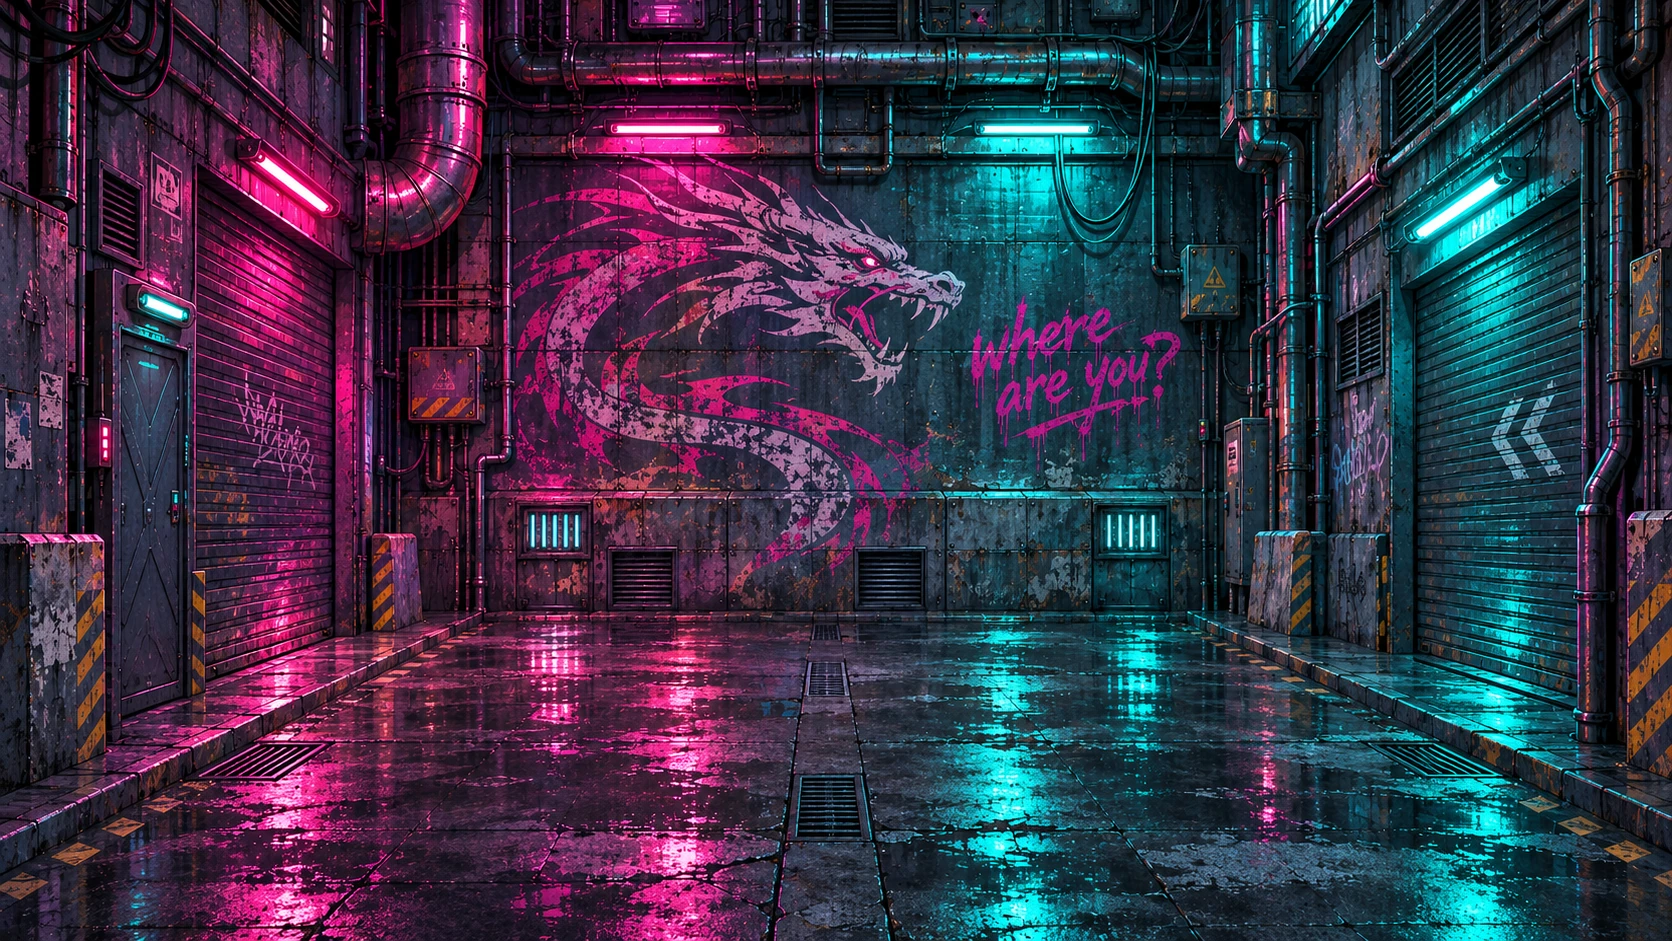
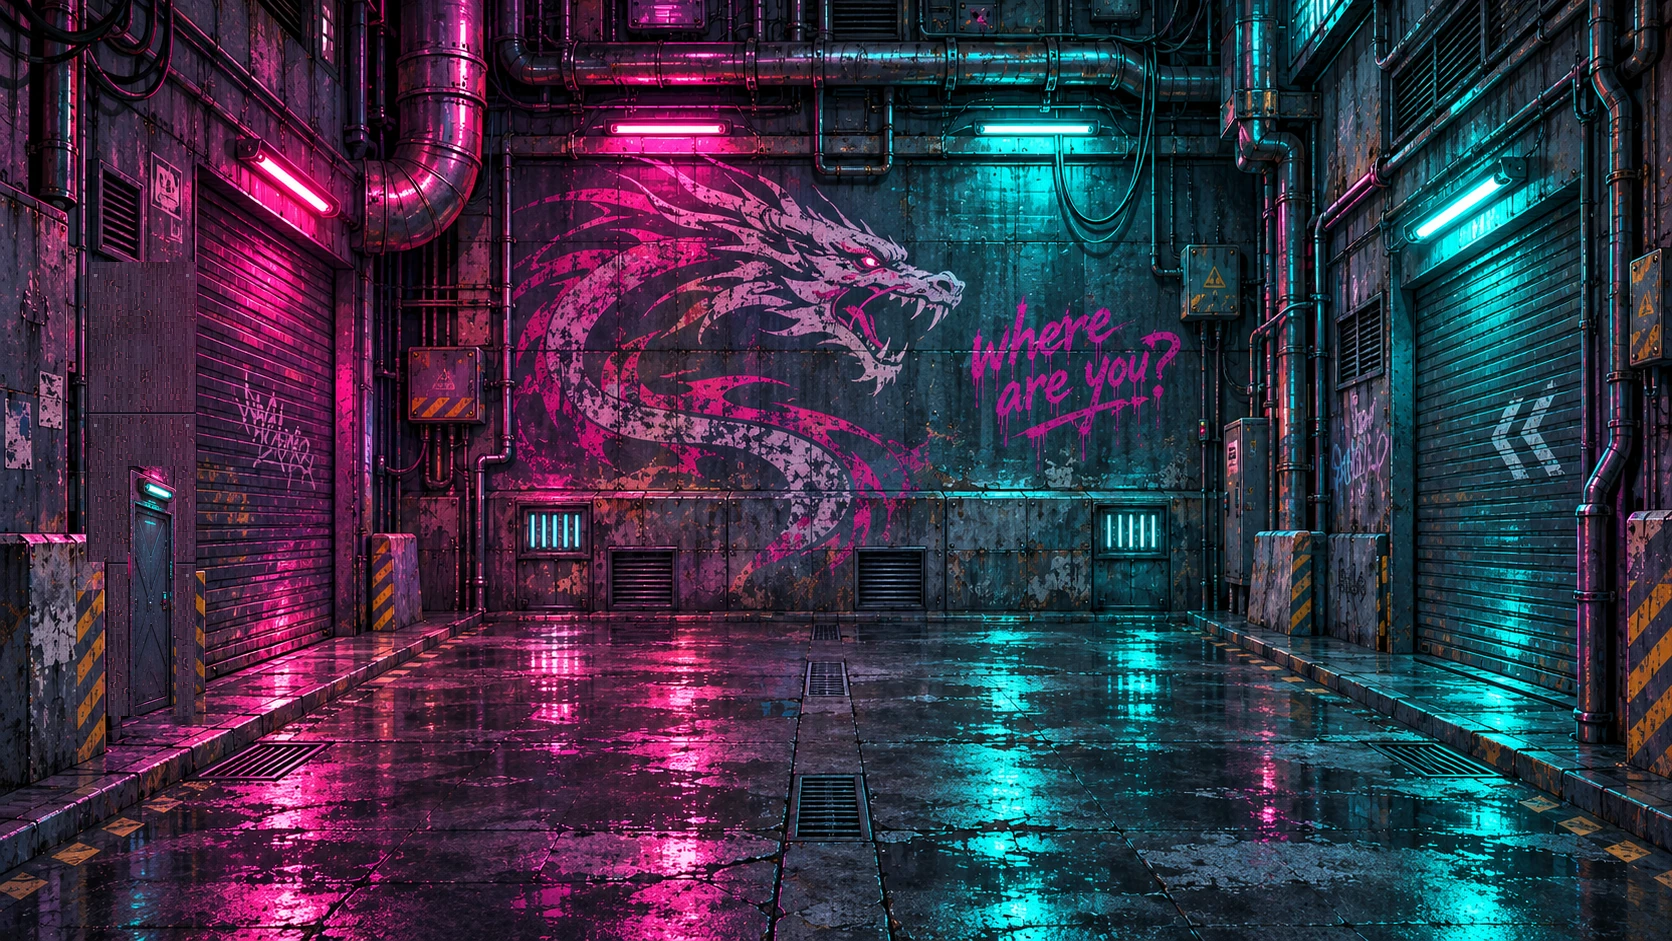
v0.60.1 · ClaudeHelper: Hintertür der Gasse auf Figurenmaß (#29)
- Türeinheit im Gassenbild auf etwa 1,3 Figurenhöhen verkleinert, Wand darüber gefüllt
- Werkzeug tools/passages/fit_backalley_door.py, Einstiegspunkt angepasst

Claude-Session: https://claude.ai/code/session_01DCcWRks7BwbFYudgfv7A8H

Changed region(s): [[0.0311, 0.2774, 0.1244, 0.7705]]

diff --git a/tools/passages/fit_backalley_door.py b/tools/passages/fit_backalley_door.py
@@ -1,0 +1,77 @@
+#!/usr/bin/env python3
+"""v0.60.1 · ClaudeHelper: Hintertür der Gasse auf Figurenmaß bringen.
+
+Im gelieferten Bild ist die Tür links rund 2,4 Figuren hoch. Das Werkzeug verkleinert die ganze
+Türeinheit (Rahmen, Lampe, Schloss) auf etwa 1,3 Figurenhöhen, lässt sie auf dem Gehweg stehen
+und füllt die frei gewordene Wand mit dem Blech der Nachbarwand.
+
+Aufruf:  python3 tools/passages/fit_backalley_door.py <gasse_1.png>
+Schreibt assets/world/painted/backalley.webp.
+"""
+import sys
+from pathlib import Path
+import numpy as np
+from PIL import Image, ImageDraw
+
+ROOT = Path(__file__).resolve().parents[2]
+UNIT = (86, 262, 196, 716)        # Türeinheit im Original
+BLOCK = (86, 562, 108, 716)       # Betonblock links unten bleibt, wie er ist
+DOOR = (108, 262, 196, 716)       # verkleinert wird nur Rahmen, Lampe und Blatt
+SCALE = 0.55
+WALL = (4, 205, 46, 258)          # ruhiges Wandblech links oben, ohne Plakate und Halterung
+
+
+def main(source: str) -> None:
+    img = Image.open(source).convert("RGB")
+    unit = img.crop(UNIT)
+    block = img.crop(BLOCK)
+    door = img.crop(DOOR)
+    w, h = unit.size
+    # Wandfüllung: kleine Stücke des Nachbarblechs zufällig neu gelegt – Körnung und Farbe
+    # bleiben, erkennbare Formen (Kanten, Plakate) wiederholen sich nicht.
+    rng = np.random.default_rng(601)
+    patch = np.asarray(img.crop(WALL))
+    ph, pw = patch.shape[:2]
+    cell = 6
+    quilt = np.zeros((h + cell * 2, w + cell * 2, 3), np.uint8)
+    for gy in range(0, h + cell, cell):
+        for gx in range(0, w + cell, cell):
+            sx = int(rng.integers(0, pw - cell)); sy = int(rng.integers(0, ph - cell))
+            piece = patch[sy:sy + cell, sx:sx + cell]
+            if rng.random() < 0.5: piece = piece[:, ::-1]
+            quilt[gy:gy + cell, gx:gx + cell] = piece
+    from PIL import ImageFilter
+    # Weiche Farbflecken aus dem Flickwerk, darüber nur dessen feine Körnung – so bleiben keine
+    # Kachelkanten stehen.
+    mosaic = Image.fromarray(quilt[:h, :w])
+    base = np.asarray(mosaic.filter(ImageFilter.GaussianBlur(7))).astype(np.float32)
+    grain = np.asarray(mosaic).astype(np.float32) - np.asarray(mosaic.filter(ImageFilter.GaussianBlur(1.6))).astype(np.float32)
+    streaks = rng.normal(0.0, 5.0, (1, w, 1)).astype(np.float32)          # senkrechte Laufspuren
+    fill = Image.fromarray(np.clip(base + grain * 0.55 + streaks, 0, 255).astype(np.uint8))
+    # Licht der Neonröhre rechts oben: nach rechts und oben leicht ins Pink ziehen.
+    a = np.asarray(fill).astype(np.float32)
+    yy, xx = np.mgrid[0:h, 0:w].astype(np.float32)
+    glow = np.clip(xx / w, 0, 1) ** 2 * np.clip(1 - yy / h, 0, 1) * 0.55
+    a = a * (1 - glow[..., None] * 0.35) + np.array([214, 40, 130], np.float32) * glow[..., None] * 0.35
+    fill = Image.fromarray(np.clip(a, 0, 255).astype(np.uint8))
+    d = ImageDraw.Draw(fill)
+    for seam in (150, 300):                       # Plattenfugen wie an der Nachbarwand
+        d.line([(0, seam), (w, seam)], fill=(20, 16, 28), width=2)
+        d.line([(0, seam + 2), (w, seam + 2)], fill=(86, 70, 98), width=1)
+    d.line([(1, 0), (1, h)], fill=(18, 14, 26), width=2)
+    for x, yy_ in [(8, 12), (w - 10, 12), (8, 162), (w - 10, 162), (8, 312), (w - 10, 312)]:
+        d.rectangle([x, yy_, x + 2, yy_ + 2], fill=(120, 104, 128))
+    img.paste(fill, UNIT[:2])
+    img.paste(block, BLOCK[:2])
+    # Verkleinerte Tür auf den Gehweg stellen.
+    small = door.resize((round(door.size[0] * SCALE), round(door.size[1] * SCALE)), Image.LANCZOS)
+    x = DOOR[0] + (door.size[0] - small.size[0]) // 2
+    y = UNIT[3] - small.size[1]
+    img.paste(small, (x, y))
+    out = ROOT / "assets/world/painted/backalley.webp"
+    img.save(out, quality=92, method=6)
+    print("door", (x, y, x + small.size[0], y + small.size[1]), "->", out)
+
+
+if __name__ == "__main__":
+    main(sys.argv[1])

diff --git a/Spiel-README.md b/Spiel-README.md
@@ -1,6 +1,6 @@
 # Shadepi · Spieleranleitung
 
-**Aktueller Stand v0.60.0 · ClaudeHelper.** [Neu: Gasse, Tower-Flur und Lobby, zwei Netz-Ebenen](docs/durchgangsraeume.md) · [Neu: Verfolgung in drei Etappen, längerer Hinterhalt](docs/level-strecken.md) · [Neu: Arcade-Automat NEON KOMBAT](docs/arcade.md) · [Neu: Verfolger explodiert, Baken zerbersten](docs/verfolgung-finale-v056.md) · [Neu: Hauptmenü aus jedem Kapitel, Koop in allen Abschnitten](docs/menue-kontrollpunkte.md) · [Neu: Koop mit Raven in Kapitel 3–7, neue Tonaufnahmen](docs/begleiter.md) · [Neu: Begleiter für Spieler 2](docs/begleiter.md) · [Neu: kalibrierte Sprites, Spiegelungen, Kinolicht](docs/szenenpolitur-v052.md) · [Neu: Towerplan, Pixelmarker, Alarmlicht, Umgebungsgeräusche](docs/verbesserungen-v048.md) · [Story-Durchsicht Kapitel 1–7](docs/story-durchsicht.md) · [Downloads](https://github.com/Inrouder/ShadepiRPG/releases/latest) · [Bilder und Filme](docs/README.md) · [Änderungen](CHANGELOG.md). [Ältere Anleitung mit damaligen Abläufen](docs/archiv/spielanleitung-bis-v0461.md).
+**Aktueller Stand v0.60.1 · ClaudeHelper.** [Neu: Gasse, Tower-Flur und Lobby, zwei Netz-Ebenen](docs/durchgangsraeume.md) · [Neu: Verfolgung in drei Etappen, längerer Hinterhalt](docs/level-strecken.md) · [Neu: Arcade-Automat NEON KOMBAT](docs/arcade.md) · [Neu: Verfolger explodiert, Baken zerbersten](docs/verfolgung-finale-v056.md) · [Neu: Hauptmenü aus jedem Kapitel, Koop in allen Abschnitten](docs/menue-kontrollpunkte.md) · [Neu: Koop mit Raven in Kapitel 3–7, neue Tonaufnahmen](docs/begleiter.md) · [Neu: Begleiter für Spieler 2](docs/begleiter.md) · [Neu: kalibrierte Sprites, Spiegelungen, Kinolicht](docs/szenenpolitur-v052.md) · [Neu: Towerplan, Pixelmarker, Alarmlicht, Umgebungsgeräusche](docs/verbesserungen-v048.md) · [Story-Durchsicht Kapitel 1–7](docs/story-durchsicht.md) · [Downloads](https://github.com/Inrouder/ShadepiRPG/releases/latest) · [Bilder und Filme](docs/README.md) · [Änderungen](CHANGELOG.md). [Ältere Anleitung mit damaligen Abläufen](docs/archiv/spielanleitung-bis-v0461.md).
 
 **Kapitel 7 / Menü v0.49.0 · CodexAI:** Bewegte Mondspiegelung, sechs Drachenphasen und acht Kontaktbilder am See; kompakte Menüs mit innenliegender Hilfe und passenden Kapitelaktionen. [Bilder und Film](docs/mondsee-v049.md).
 

diff --git a/docs/README.md b/docs/README.md
@@ -1,6 +1,6 @@
 # Shadepi · Bilder, Filme und Dokumentation
 
-**Stand v0.60.0 · ClaudeHelper · 12. November 2026.** [Zur Repository-Startseite](../README.md) · [Spieleranleitung](../Spiel-README.md) · [Versionshinweise](../CHANGELOG.md).
+**Stand v0.60.1 · ClaudeHelper · 12. November 2026.** [Zur Repository-Startseite](../README.md) · [Spieleranleitung](../Spiel-README.md) · [Versionshinweise](../CHANGELOG.md).
 
 Die Bilder öffnen den jeweiligen Bericht. Dort findest du größere Spielaufnahmen, animierte Szenenfilme, Bedienung und technische Hinweise. Die PNG-Vorschauen sind direkt in GitHub sichtbar; die Filme bleiben zusätzlich als verlinkte WebP-Dateien erreichbar.
 
@@ -12,19 +12,19 @@ In Kapitel 3 bis 7 steuert Spieler 2 Raven selbst, wo sie frei in der Szene steh
 
 [![Gasse, Punk, Tower-Flur, Lobby mit Wachen, Datenarchiv, roter Kern](previews/durchgangsraeume-v060.webp)](durchgangsraeume.md)
 
-[Durchgangsräume: Gasse, Tower-Flur und Lobby, zwei Netz-Ebenen](durchgangsraeume.md) · Aufnahmestand v0.60.0.
+[Durchgangsräume: Gasse, Tower-Flur und Lobby, zwei Netz-Ebenen](durchgangsraeume.md) · Aufnahmestand v0.60.1.
 
 [![Etappe 2 im Tunnel, Etappe 3 auf der Hochstraße](previews/verfolgung-etappen-v058.webp)](level-strecken.md)
 
-[Level strecken: Verfolgung in drei Etappen, längerer Hinterhalt](level-strecken.md) · Aufnahmestand v0.60.0.
+[Level strecken: Verfolgung in drei Etappen, längerer Hinterhalt](level-strecken.md) · Aufnahmestand v0.60.1.
 
 [![Automat in der Halle, Kämpferwahl und Kampf](previews/arcade-v057.webp)](arcade.md)
 
-[Arcade-Automat NEON KOMBAT](arcade.md) · Aufnahmestand v0.60.0.
+[Arcade-Automat NEON KOMBAT](arcade.md) · Aufnahmestand v0.60.1.
 
 [![Bake zerbirst, Wagen brennt, Wrack bleibt zurück](previews/verfolgung-wrack-v056.webp)](verfolgung-finale-v056.md)
 
-[Verfolgungsfinale: Explosion und zerberstende Hindernisse](verfolgung-finale-v056.md) · Aufnahmestand v0.60.0.
+[Verfolgungsfinale: Explosion und zerberstende Hindernisse](verfolgung-finale-v056.md) · Aufnahmestand v0.60.1.
 
 [![Drohne und Nanitenschwarm im Spiel](previews/begleiter-v053.png)](begleiter.md)
 

diff --git a/tools/README.md b/tools/README.md
@@ -40,6 +40,7 @@ Diese Vermessungen lesen PNG-Pixel, **überschreiben aber aktive JSON-Anker-/Akt
 | [calibrate_atlases.py](sprites/calibrate_atlases.py) | v0.52.0 · ClaudeHelper: schreibend. Gibt jeder Pose eine eigene Zelle mit Rand und passt die JSON-Kataloge an; zeichnet nichts neu. Ausschnitte stehen in [atlas_regions.py](sprites/atlas_regions.py). |
 | [import_free_sfx.py](audio/import_free_sfx.py) | v0.54.0 · ClaudeHelper: wandelt die freien CC0-Aufnahmen in die Spieldateien um; Quellen in `assets/audio/CREDITS.md`. Braucht ffmpeg und die Quell-Klone. |
 | [repair_parked_bike.py](vehicles/repair_parked_bike.py) | v0.57.1 · ClaudeHelper: ersetzt den lückenhaften Mittelteil von `assets/world/hq/bike-parked.png` durch Rahmen, Lenker, Tank und Sitzbank; Quelle ist die gesicherte Altfassung `vehicles/bike-parked-source.png`. |
+| [fit_backalley_door.py](passages/fit_backalley_door.py) | v0.60.1 · ClaudeHelper: verkleinert die Hintertür im gelieferten Gassenbild auf Figurenmaß und schreibt `assets/world/painted/backalley.webp`. Braucht Pillow und numpy. |
 | [build_arcade.py](arcade/build_arcade.py) | v0.57.0 · ClaudeHelper: schreibt Bühne, Automat und Trefferfunken für NEON KOMBAT nach `assets/arcade/`. Braucht Pillow und numpy. |
 | [build_drive_fx.py](fx/build_drive_fx.py) | v0.56.0 · ClaudeHelper: schreibt die Pixel-FX der Verfolgung nach `assets/fx/drive/` und das Wagenwrack `assets/vehicles/pursuit/wreck.png`. Braucht Pillow und numpy. |
 | [build_companions.py](companions/build_companions.py) | v0.53.0 · ClaudeHelper: schreibt Drohne und Naniten nach `assets/sprites/companions/`. |

diff --git a/CLAUDE.md b/CLAUDE.md
@@ -1,6 +1,6 @@
 # Projekteinstieg für Claude
 
-**Stand v0.60.0 · ClaudeHelper (Einstieg eingeführt v0.46.2 · CodexAI).** Für dieses Repository gelten die gemeinsamen Regeln in [AGENTS.md](AGENTS.md), die verbindliche [Konsistenzvorlage](KONSISTENZ.md) und die **[bebilderte Stilbibel für das gesamte Spiel](docs/stilbibel/README.md)**. Vor Projektarbeiten lesen und die passenden Figuren-/Welt-/Objekt-/UI-/FX-Karten tatsächlich ansehen.
+**Stand v0.60.1 · ClaudeHelper (Einstieg eingeführt v0.46.2 · CodexAI).** Für dieses Repository gelten die gemeinsamen Regeln in [AGENTS.md](AGENTS.md), die verbindliche [Konsistenzvorlage](KONSISTENZ.md) und die **[bebilderte Stilbibel für das gesamte Spiel](docs/stilbibel/README.md)**. Vor Projektarbeiten lesen und die passenden Figuren-/Welt-/Objekt-/UI-/FX-Karten tatsächlich ansehen.
 
 Für konkrete Änderungen die [Arbeitsvorlage](docs/vorlagen/konsistenz-auftrag.md) verwenden. Aktive Referenzen, Versions-/Bearbeitervermerke und bereits bestehende Autorisierung aus den gemeinsamen Regeln übernehmen. Hier keine abweichende zweite Regelsammlung führen.
 

diff --git a/CHANGELOG.md b/CHANGELOG.md
@@ -1,5 +1,12 @@
 # Versionshinweise
 
+## v0.60.1 – ClaudeHelper: Hintertür der Gasse auf Figurenmaß · 12. November 2026
+
+Nutzerbericht: Die Tür in der Gasse war viel größer als Raven.
+
+- Die Türeinheit (Rahmen, Lampe, Schloss) ist auf etwa 1,3 Figurenhöhen verkleinert und steht weiter auf dem Gehweg; vorher war sie rund 2,4 Figuren hoch. Die frei gewordene Wand ist mit dem Blech der Nachbarwand gefüllt.
+- Werkzeug `tools/passages/fit_backalley_door.py` wiederholt den Schritt aus dem gelieferten Bild.
+
 ## v0.60.0 – ClaudeHelper: Gasse, Tower-Flur und Lobby, zwei Netz-Ebenen · 12. November 2026
 
 Der Nutzer hat fünf Level-Bilder geliefert und beschrieben, wo sie hingehören.

diff --git a/docs/durchgangsraeume.md b/docs/durchgangsraeume.md
@@ -4,7 +4,7 @@
 
 ![Gasse, Punk, Tower-Flur, Lobby mit Wachen, Datenarchiv, roter Kern](previews/durchgangsraeume-v060.webp)
 
-Nutzerauftrag vom 12. November 2026: fünf gelieferte Level-Bilder einbauen. Alle fünf ließen sich ohne Nacharbeit am Bild verwenden; die beiden Tower-Bilder sind nur um ihre weißen Ränder beschnitten.
+Nutzerauftrag vom 12. November 2026: fünf gelieferte Level-Bilder einbauen. Die beiden Tower-Bilder sind um ihre weißen Ränder beschnitten. In der Gasse ist seit v0.60.1 die Hintertür auf Figurenmaß verkleinert (`tools/passages/fit_backalley_door.py`); die übrigen Bilder sind unverändert.
 
 ## Wo die Räume liegen
 

diff --git a/README.md b/README.md
@@ -1,6 +1,6 @@
 # Shadepi · Echos in Neon
 
-**2D-Action-RPG · v0.60.0 · ClaudeHelper · Godot 4.7.2 · Windows / Linux · Einzelspieler und Lokal-Koop**
+**2D-Action-RPG · v0.60.1 · ClaudeHelper · Godot 4.7.2 · Windows / Linux · Einzelspieler und Lokal-Koop**
 
 Ein spielbares Cyberpunk-Abenteuer nach **„Shadepi – Im Schatten des Raben“** mit sieben Kapiteln, gemalten Spielwelten, illustrierten Sprites für Raven, Shadepi und die Gegner sowie zerstörbarer Umgebung.
 
